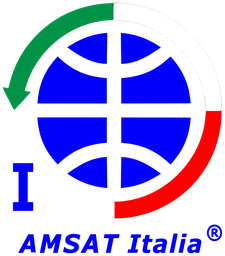
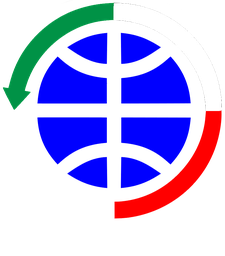
Add files via upload

Changed region(s): [[0.56, 0.875, 0.9956, 1.0], [0.0622, 0.9062, 0.5289, 1.0], [0.0311, 0.625, 0.1556, 0.8438]]

diff --git a/index.html b/index.html
@@ -20,7 +20,7 @@
   .wrap{max-width:1100px;margin:0 auto;padding:16px}
   .site-top{display:flex;align-items:center;gap:clamp(6px,1.5vw,16px);margin:0 0 14px}
   .site-top #site-banner{display:block;flex:1 1 auto;min-width:0;width:100%;max-width:960px;height:auto;border-radius:clamp(5px,1vw,10px)}
-  .supporto{flex:0 0 12.5%;max-width:136px;text-align:center;font-size:clamp(6px,1.1vw,12px);color:#c2570c;font-weight:600;line-height:1.15}
+  .supporto{flex:0 0 12.5%;max-width:136px;text-align:center;font-size:clamp(6px,1.1vw,12px);color:#fff;font-weight:600;line-height:1.15}
   .supporto a{display:block;margin-top:clamp(2px,0.5vw,6px)}
   .supporto img{display:block;width:76%;height:auto;margin:0 auto}
   header h1{font-size:22px;margin:0 0 2px}
